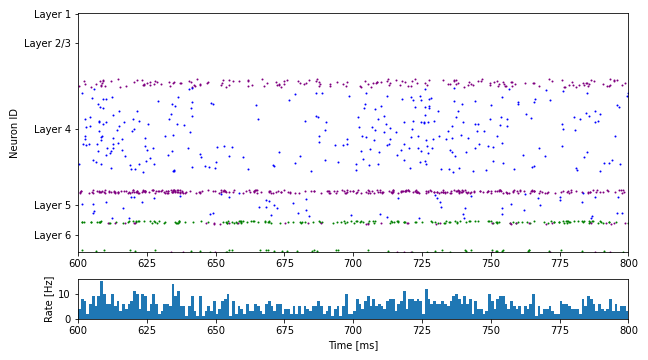
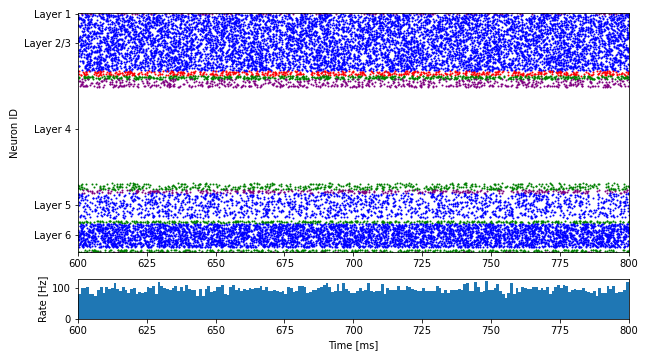
Most recent

diff --git a/SS.py b/SS.py
@@ -1,0 +1,27 @@
+#!/usr/bin/env python3
+# -*- coding: utf-8 -*-
+"""
+Created on Thu Feb  2 13:44:14 2023
+
+@author: fiona
+"""
+
+import numpy as np
+
+SS = np.array([[1.73, 0.53, 0.48, 0.57, 0.78, 0.42, 0   , 0   , 0   , 0.42, 0   , 0   , 0   , 0.42, 0   , 0   , 0   ],
+               [0   , 0.36, 1.49, 0.86, 1.31, 0.34, 1.39, 0.69, 0.91, 0.74, 1.32, 0.53, 0   , 0   , 0   , 0   , 0   ],
+               [0.37, 0.48, 0.68, 0.42, 0.41, 0.56, 0.68, 0.42, 0.41, 0.2 , 0.79, 0   , 0   , 0   , 0   , 0   , 0   ],
+               [0.47, 0.31, 0.5 , 0.15, 0.52, 0.3 , 0.5 , 0.15, 0.52, 0.22, 0   , 0   , 0   , 0   , 0   , 0   , 0   ],
+               [0   , 0.28, 0.18, 0.32, 0.37, 0.29, 0.18, 0.32, 0.37, 0   , 0   , 0   , 0   , 0   , 0   , 0   , 0   ],
+               [0   , 0.78, 1.39, 0.69, 0.91, 0.83, 1.29, 0.51, 0.51, 0.63, 1.25, 0.52, 0.91, 0.96, 0   , 0   , 0   ],
+               [0   , 0.56, 0.68, 0.42, 0.41, 0.64, 0.68, 0.42, 0.41, 0.73, 0.94, 0.42, 0.41, 0   , 0   , 0   , 0   ],
+               [0.39, 0.3 , 0.5 , 0.15, 0.52, 0.29, 0.5 , 0.15, 0.52, 0.28, 0.45, 0.28, 0.52, 0   , 0   , 0   , 0   ],
+               [0   , 0.29, 0.18, 0.32, 0.37, 0.29, 0.18, 0.32, 0.37, 0   , 0.18, 0.33, 0.37, 0   , 0   , 0   , 0   ],
+               [0.76, 0.47, 1.25, 0.52, 0.91, 0.38, 1.25, 0.52, 0.91, 0.75, 1.2 , 0.52, 1.31, 0.4 , 2.5 , 0.52, 1.31],
+               [0   , 0   , 0.51, 0   , 0   , 0   , 0.94, 0.42, 0.41, 0.81, 1.19, 0.41, 0.41, 0.81, 1.19, 0.41, 0.41],
+               [0.31, 0.25, 0   , 0.39, 0   , 0.28, 0.45, 0.28, 0.52, 0.27, 0.4 , 0.4 , 0.52, 0.27, 0.4 , 0.4 , 0.52],
+               [0   , 0   , 0   , 0   , 0   , 0.29, 0.18, 0.33, 0.37, 0.28, 0.18, 0.33, 0.37, 0.28, 0.18, 0.33, 0.37],
+               [0   , 0   , 0   , 0   , 0   , 0   , 0   , 0   , 0   , 0.23, 2.5 , 0.52, 1.31, 0.94, 3.8 , 0.52, 1.31],
+               [0   , 0.81, 0   , 0   , 0   , 0.81, 0   , 0   , 0   , 0.81, 1.19, 0.41, 0.41, 0.81, 1.19, 0.41, 0.41],
+               [0   , 0   , 0   , 0   , 0   , 0   , 0   , 0   , 0   , 0.27, 0.4 , 0.4 , 0.52, 0.27, 0.4 , 0.4 , 0.52],
+               [0   , 0   , 0   , 0   , 0   , 0   , 0   , 0   , 0   , 0.28, 0.18, 0.33, 0.37, 0.28, 0.18, 0.33, 0.37]])

diff --git a/simulation/run.py b/simulation/run.py
@@ -66,8 +66,8 @@ num_types  = 4
 num_layertypes = 17
 num_parameters = 14
 
-Nscale = 0.1
-Kscale = 0.22
+Nscale = 0.05
+Kscale = 1
 Sscale = 1
 Rscale = Nscale * 0.5
 
@@ -147,6 +147,7 @@ C *= Kscale
 ##L1 | L23e, i | L4e,i | L5e,i | L6e,i
 #ext_rates = np.array([1500, 1600, 1500, 1500, 1500, 2100, 1900, 1900, 1900, 2000, 1900, 1900, 1900, 2900, 2100, 2100, 2100]) * 8 * Kscale
 ext_rates = np.array([1900, 2600, 1500, 1500, 1500, 2100, 1900, 1900, 1900, 2000, 1900, 1900, 1900, 2900, 2100, 2100, 2100]) * 8 * Kscale
+stim_weights = [5, 3.97, 2.2, 4.2, 2.1, 3e-13, 7.5e-26, 3.6, 0.8, 4.1, 4e-18, 1.8, 0.02, 7.5, 2e-20, 3.2, 2.2 ]
 # relative_weight = [1,                                                                                       ## Layer 1
 #                     1, 3876/(3876 + 2807 + 6683), 2807/(3876 + 2807 + 6683), 6683/(3876 + 2807 + 6683),      ## Layer 23
 #                     1, 9502/(9502+5455+2640), 5455/(9502+5455+2640), 2640/(9502+5455+2640),                  ## Layer 4
@@ -157,7 +158,7 @@ ext_rates = np.array([1900, 2600, 1500, 1500, 1500, 2100, 1900, 1900, 1900, 2000
 
 # # add stimulation
 for i in range(len(ext_rates)):
-    network.add_stimulation(source={'type': 'poisson_generator', 'rate': ext_rates[i]}, target=i)
+    network.add_stimulation(source={'type': 'poisson_generator', 'rate': ext_rates[i]}, target=i, weight=stim_weights[i])
 
 ## Connect all populations to each other according to the
 ## connectivity matrix and synaptic specifications

diff --git a/simulation/data_exploration.py b/simulation/data_exploration.py
@@ -1,5 +1,7 @@
 import h5py
 import numpy as np
+from collections import Counter
+import pandas as pd
 
 f = h5py.File('data/bkg_v1_edges.h5', 'r')
 
@@ -36,9 +38,42 @@ for o in output:
     #print(f"Dimensions: {o.ndim}\nShape: {o.shape}\nSize: {o.size}\nBytes: {o.nbytes}")
     values.append(o[0:len(o)])
     
-# data = dict()
-# for k, v in zip(keys, values):
-#     data[k] = v
+data = sorted(list(zip(values[0], values[3])), key = lambda x: x[1])
+connections = Counter(i for i in data)
+#connections = sorted(weight_counts, key = lambda x: x[1])
+
+
+
+#connections = sorted(set(data), key = lambda x: x[1])
+nya = []
+for i in zip(connections.keys(), connections.values()):
+    tmp = [i[0][0], i[0][1], i[1]]
+    nya.append(tmp)
     
-# np.unique(values[0]).size
-# np.unique(values[3]).size
+pop_names = ['e5Rbp4',
+             'e23Cux2',
+             'e4Scnn1a',
+             'i6Htr3a',
+             'e4other',
+             'i4Sst',
+             'e4Nr5a1',
+             'i5Sst',
+             'i4Pvalb',
+             'i6Sst',
+             'i6Pvalb',
+             'i23Pvalb',
+             'i23Htr3a', 
+             'e4Rorb',
+             'i5Htr3a',
+             'i5Pvalb',
+             'i23Sst',
+             'i4Htr3a', 
+             'e6Ntsr1', 
+             'i1Htr3a',
+             'e5noRbp4']
+    
+df = pd.DataFrame(nya)
+for i in range(len(df[1])):
+    df[1][i] = pop_names[df[1][i]]
+
+

diff --git a/simulation/functions.py b/simulation/functions.py
@@ -151,7 +151,7 @@ class Network:
         
                 
 
-    def add_stimulation(self, source, target):
+    def add_stimulation(self, source, target, weight):
         """
         Adds excitatory stimulation of the specified type to the specified target
         population
@@ -162,6 +162,8 @@ class Network:
             Contains the type of stimulation source and the stimulation rate.
         target : int
             Specifies which population to connect to (index in the list of populations)
+        weight: float
+            Specifies the synaptic weight of the connection
 
         Returns
         -------
@@ -171,7 +173,7 @@ class Network:
         stimulus = nest.Create(source['type'])
         stimulus.rate = source['rate']
         nest.Connect(stimulus, self.__populations[target], conn_spec={'rule': 'all_to_all'},  syn_spec={'receptor_type': 1,
-                                                                                                'weight': 1.})
+                                                                                                'weight': weight})
     
     def get_pops(self):
         """
